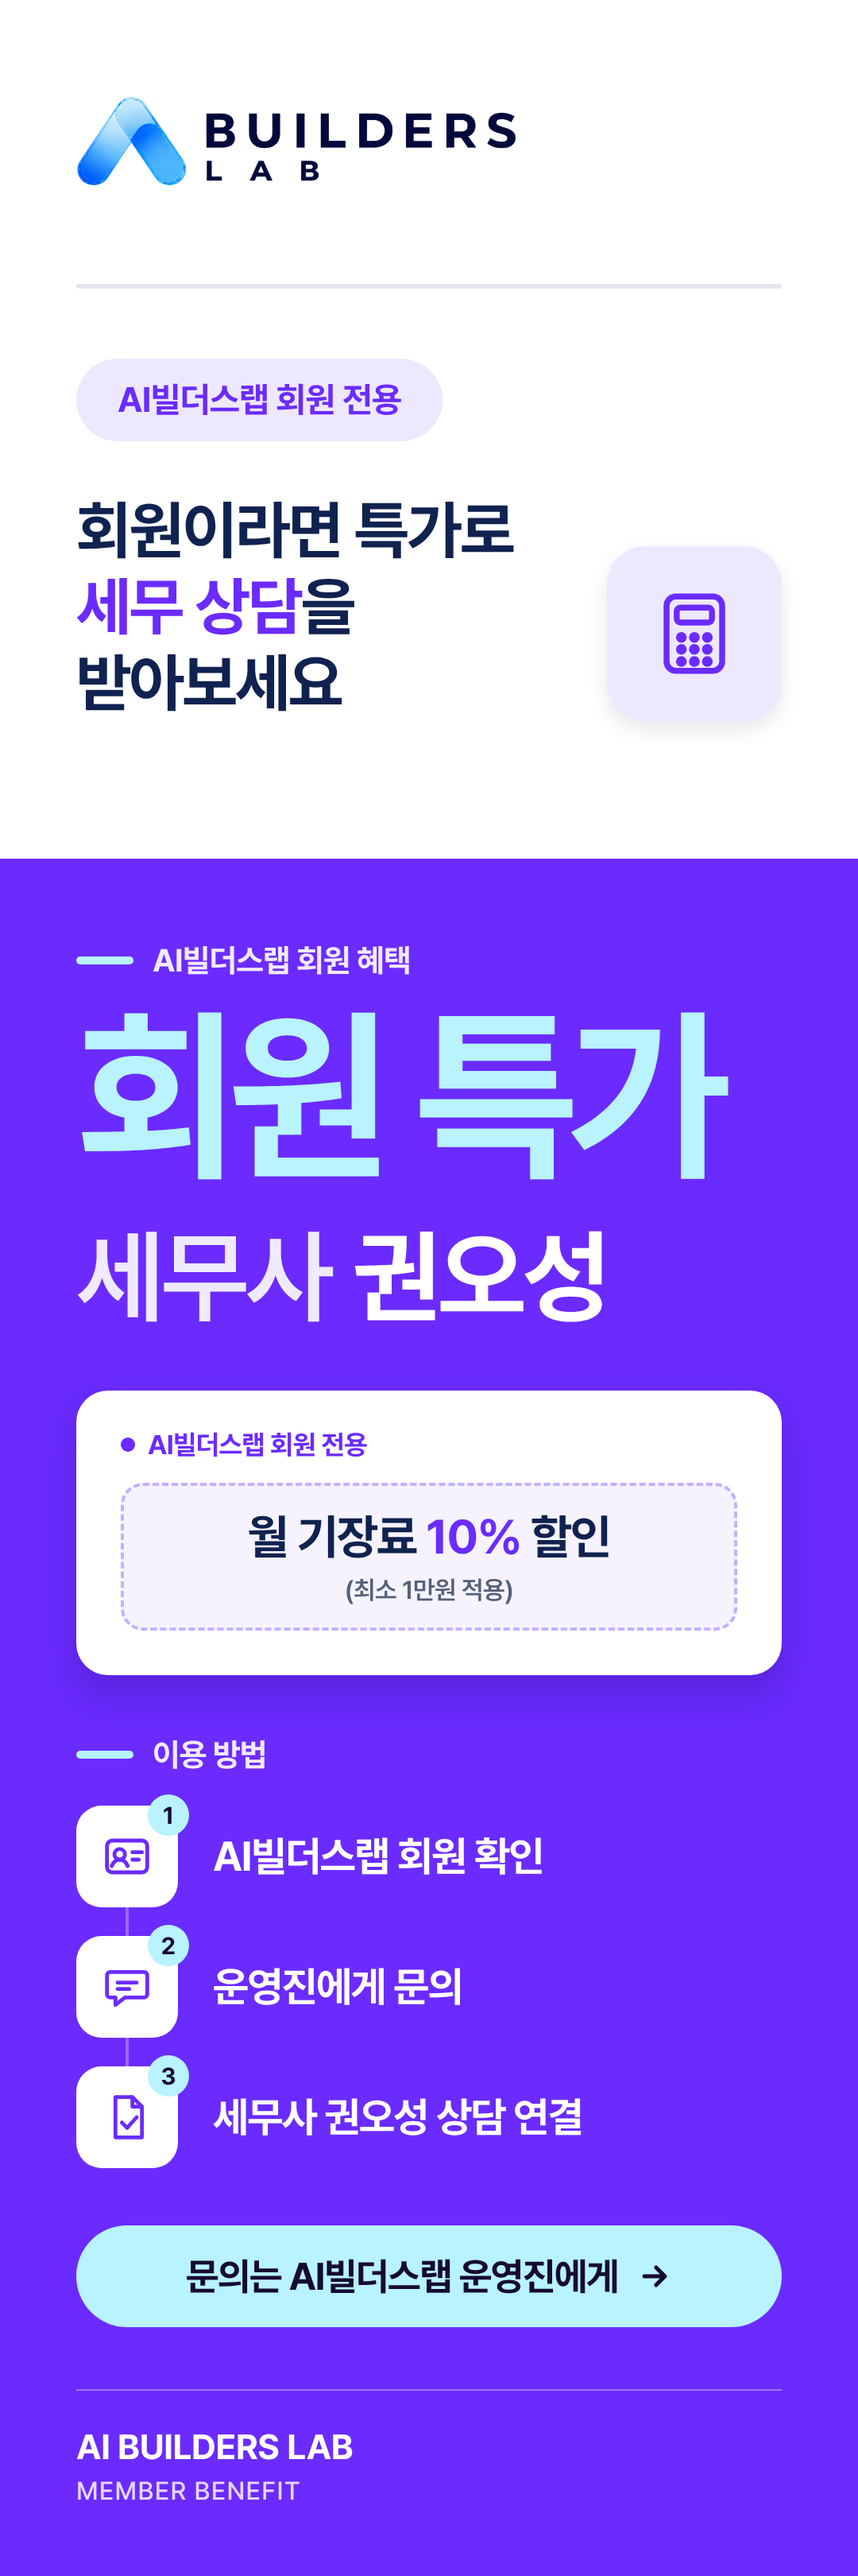
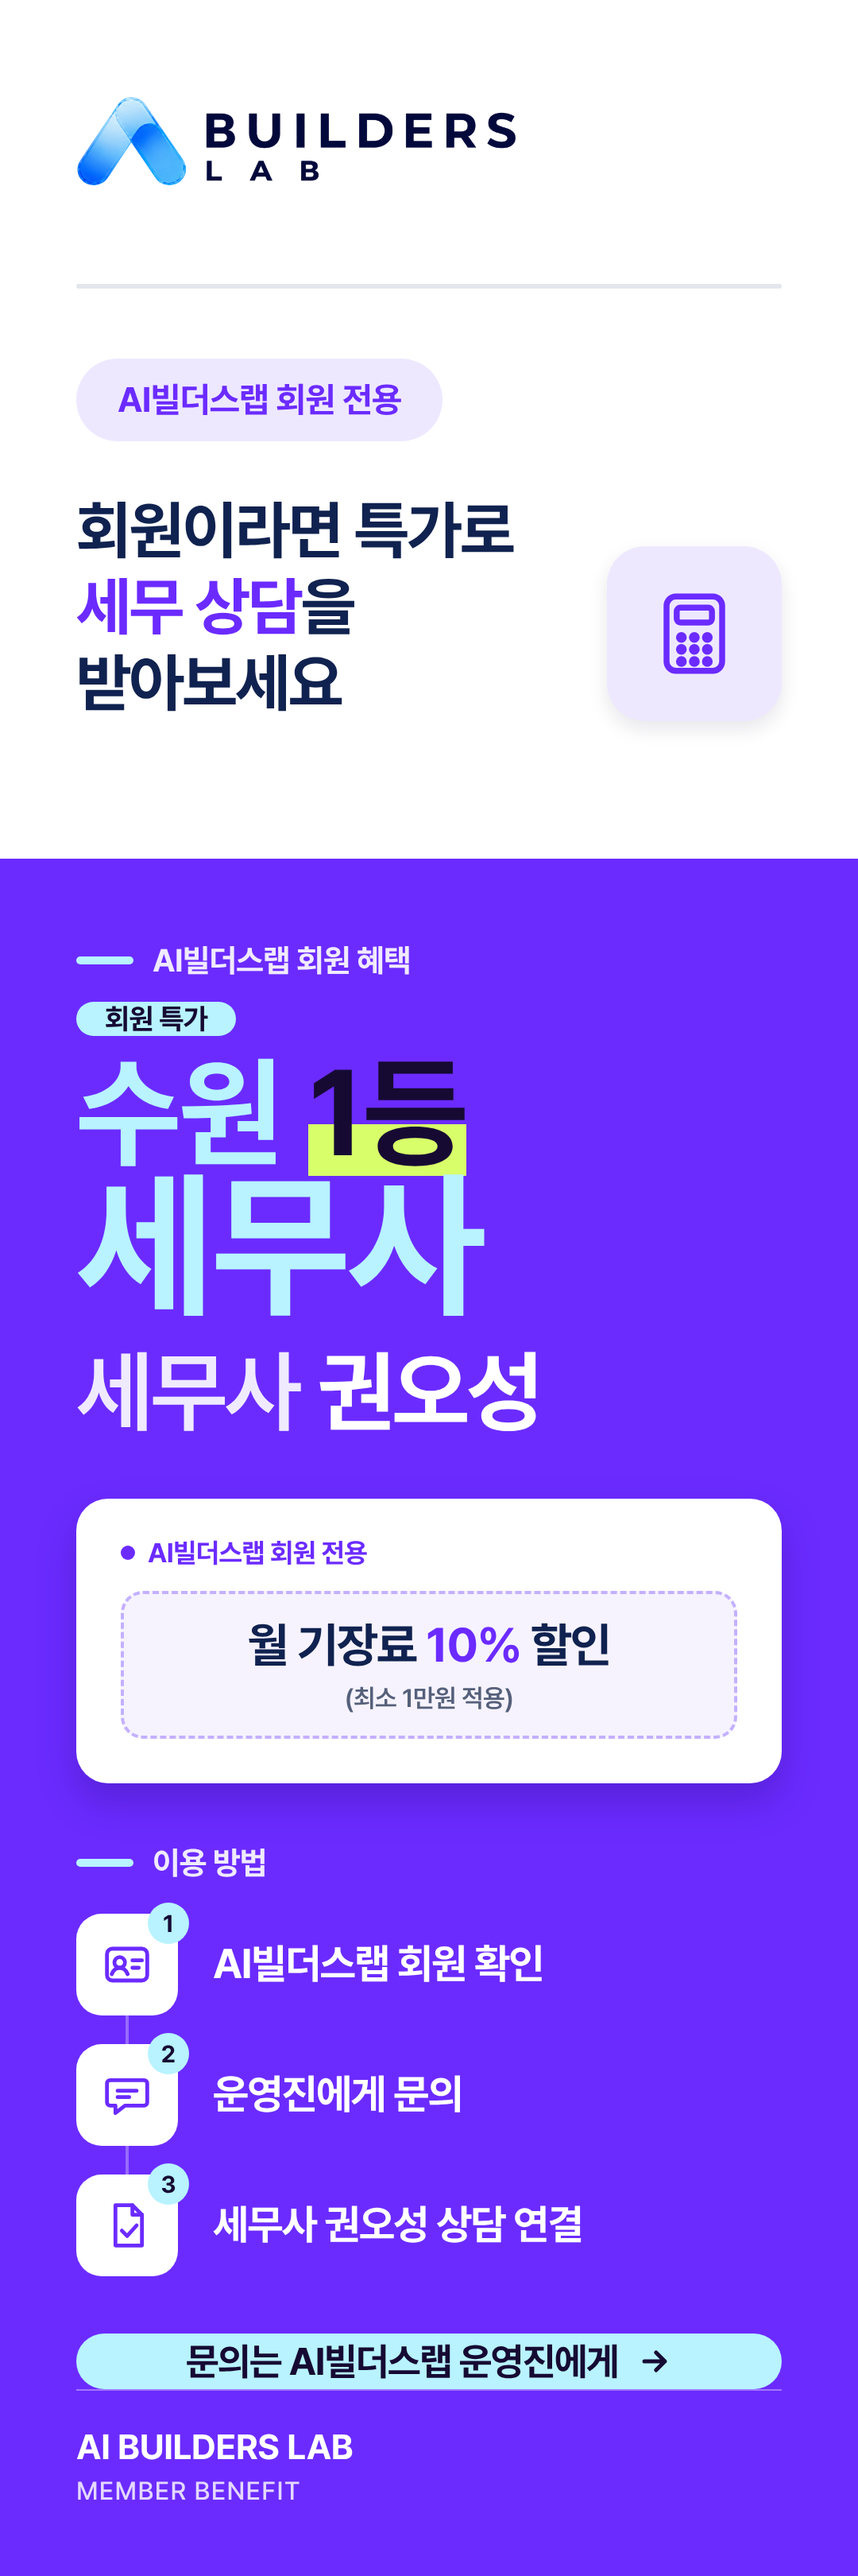
시안 B 되돌리고, C 울트라 바이올렛에 수원 1등 세무사 반영
B는 특가 플레이스홀더가 있던 이전 상태로 복구하고, 보라색 C-violet을 최종으로 표시한다.

Changed region(s): [[0.0917, 0.3741, 0.9167, 0.9352], [0.7944, 0.3741, 0.8556, 0.4676]]

diff --git a/index.html b/index.html
@@ -1,6 +1,6 @@
 <!doctype html><html lang="ko"><head><meta charset="utf-8"><meta name="viewport" content="width=device-width,initial-scale=1">
 <title>세무사 권오성 · AI빌더스랩 회원 특가 배너 시안</title>
-<meta name="description" content="AI빌더스랩 회원 전용 세무사 배너 시안 미리보기와 다운로드. 시안 B 최종, 수원 1등 세무사, 월 기장료 10% 할인(최소 1만원 적용)">
+<meta name="description" content="AI빌더스랩 회원 전용 세무사 배너 시안 미리보기와 다운로드. 시안 C 울트라 바이올렛 최종, 수원 1등 세무사, 월 기장료 10% 할인(최소 1만원 적용)">
 <link rel="stylesheet" href="https://cdn.jsdelivr.net/gh/orioncactus/pretendard@v1.3.9/dist/web/static/pretendard.min.css">
 <style>
 *{box-sizing:border-box}body{margin:0;font-family:Pretendard,-apple-system,sans-serif;background:#F4F6FB;color:#10224F;word-break:keep-all}
@@ -37,11 +37,11 @@ footer{background:#1E5EFF;color:#fff;padding:28px 0;margin-top:40px}footer b{dis
 @media(max-width:720px){.prev{grid-template-columns:1fr}.vert{max-width:280px}}
 </style></head><body>
 <header><div class="wrap"><div class="top"><img src="logo.png" alt="AI BUILDERS LAB"><span class="pill">AI빌더스랩 회원 전용</span></div>
-<div class="hero"><span class="pill">시안 B 최종</span><h1>세무사 권오성<br><b>회원 특가</b> 배너</h1><div class="bar"></div>
-<p>시안 B를 최종으로 확정했어요. “수원 1등 세무사”를 강조했고, 특가는 AI빌더스랩 회원 전용 월 기장료 10% 할인(최소 1만원 적용)입니다. 아래에서 세로(1080×3240)·가로(1200×400) PNG를 내려받을 수 있어요.</p>
-<nav class="jump"><a href="#vA">시안 A</a><a class="sel" href="#vB">시안 B 최종</a><a href="#vC">시안 C</a><a href="#colors">컬러 3종</a><a href="#comments">댓글</a></nav></div></div></header>
+<div class="hero"><span class="pill">시안 C 울트라 바이올렛 최종</span><h1>세무사 권오성<br><b>회원 특가</b> 배너</h1><div class="bar"></div>
+<p>시안 C 울트라 바이올렛을 최종으로 확정했어요. “수원 1등 세무사”를 강조했고, 특가는 AI빌더스랩 회원 전용 월 기장료 10% 할인(최소 1만원 적용)입니다. 아래에서 세로(1080×3240)·가로(1200×400) PNG를 내려받을 수 있어요.</p>
+<nav class="jump"><a href="#vA">시안 A</a><a href="#vB">시안 B</a><a href="#vC">시안 C</a><a class="sel" href="#violet">울트라 바이올렛 최종</a><a href="#colors">컬러 3종</a><a href="#comments">댓글</a></nav></div></div></header>
 <main class="wrap">
-<div class="note"><b>시안 B 최종: 수원 1등 세무사 · 월 기장료 10% 할인(최소 1만원 적용).</b><p>같은 특가는 시안 C와 컬러 3종에도 들어 있어요. 시안 A의 특가 자리는 아직 비어 있습니다. 문의는 AI빌더스랩 운영진에게.</p></div>
+<div class="note"><b>시안 C 울트라 바이올렛 최종: 수원 1등 세무사 · 월 기장료 10% 할인(최소 1만원 적용).</b><p>같은 특가는 시안 C 원안과 다른 컬러 3종에도 들어 있어요. 시안 A·B의 특가 자리는 아직 비어 있습니다. 문의는 AI빌더스랩 운영진에게.</p></div>
 <section class="card" id="vA">
   <div class="head"><span class="tag">시안 A</span><h2>레퍼런스형</h2><p>레퍼런스 그대로: 흰 상단 대형 3줄 타이포(회원 특가/세무사/권오성) + 하단 블루 블록에 연두 특가 슬롯</p></div>
   <div class="prev">
@@ -52,7 +52,7 @@ footer{background:#1E5EFF;color:#fff;padding:28px 0;margin-top:40px}footer b{dis
   </div>
 </section>
 <section class="card" id="vB">
-  <div class="head"><span class="tag final">시안 B · 최종</span><h2>프로필·쿠폰형</h2><p>인물 중심: 상단에 “수원 1등 세무사” 강조, 큰 프로필 카드(권 이니셜·초대형 권오성) + 점선 절취선 쿠폰 티켓에 월 기장료 10% 할인</p></div>
+  <div class="head"><span class="tag">시안 B</span><h2>프로필·쿠폰형</h2><p>인물 중심: 큰 프로필 카드(권 이니셜·초대형 권오성) + 점선 절취선 쿠폰 티켓에 특가 슬롯</p></div>
   <div class="prev">
     <figure class="vert"><img src="png/B-vertical.png" alt="시안 B 세로 1080×3240" loading="lazy"><figcaption>세로 1080×3240</figcaption>
       <a class="btn" href="png/B-vertical.png" download="taxbanner-B-vertical.png">세로 PNG 내려받기</a></figure>
@@ -83,9 +83,9 @@ footer{background:#1E5EFF;color:#fff;padding:28px 0;margin-top:40px}footer b{dis
           <a class="btn red" href="png/C-red-horizontal.png" download="taxbanner-C-red-horizontal.png">가로 PNG 내려받기</a></figure>
       </div>
     </article>
-    <article class="color-card">
+    <article class="color-card" id="violet">
       <div class="stripe" style="background:#6B2BFF"></div>
-      <div class="meta"><span class="dot" style="background:#6B2BFF"></span><div><h3>울트라 바이올렛</h3><p class="hex">#6B2BFF · 액센트 #B8F3FF</p></div></div>
+      <div class="meta"><span class="dot" style="background:#6B2BFF"></span><div><h3>울트라 바이올렛 <span class="tag final" style="margin-left:8px;vertical-align:middle">최종</span></h3><p class="hex">#6B2BFF · 액센트 #B8F3FF · 수원 1등 세무사</p></div></div>
       <div class="prev">
         <figure class="vert"><img src="png/C-violet-vertical.png" alt="시안 C 울트라 바이올렛 세로 1080×3240" loading="lazy"><figcaption>세로 1080×3240</figcaption>
           <a class="btn violet" href="png/C-violet-vertical.png" download="taxbanner-C-violet-vertical.png">세로 PNG 내려받기</a></figure>

diff --git a/src/banner-B-horizontal.html b/src/banner-B-horizontal.html
@@ -27,7 +27,7 @@
   .logo { display: block; height: 50px; }
   .badge { display: inline-flex; align-items: center; height: 40px; padding: 0 20px; border-radius: 20px;
            background: #EAF0FF; color: #1E5EFF; font-size: 18px; font-weight: 700; letter-spacing: -0.02em; }
-  .profile { display: flex; align-items: center; gap: 36px; margin-top: 22px; }
+  .profile { display: flex; align-items: center; gap: 36px; margin-top: 32px; }
   .avatar { width: 136px; height: 136px; border-radius: 50%; flex: none;
             background: linear-gradient(145deg, #3B74FF 0%, #1E5EFF 55%, #1449D6 100%);
             display: flex; align-items: center; justify-content: center;
@@ -35,25 +35,20 @@
             box-shadow: 0 0 0 8px #EAF0FF; margin-left: 8px; }
   .role { display: inline-flex; align-items: center; height: 36px; padding: 0 16px; border-radius: 18px;
           background: #EAF0FF; color: #1E5EFF; font-size: 20px; font-weight: 700; }
-  .name { margin-top: 4px; font-size: 96px; line-height: 1; font-weight: 900; letter-spacing: -0.04em; color: #10224F; }
-  .headline { margin-top: 16px; display: flex; align-items: center; gap: 14px;
-              font-size: 48px; line-height: 1.1; font-weight: 800; color: #10224F; letter-spacing: -0.04em; }
-  .headline i { display: block; width: 32px; height: 8px; border-radius: 4px; background: #1E5EFF; flex: none; }
-  .headline em { font-style: normal; color: #1E5EFF;
-                 background: linear-gradient(transparent 62%, #D8FF6A 62%, #D8FF6A 94%, transparent 94%); }
+  .name { margin-top: 6px; font-size: 104px; line-height: 1; font-weight: 900; letter-spacing: -0.04em; color: #10224F; }
+  .sub { margin-top: 26px; display: flex; align-items: center; gap: 14px;
+         font-size: 20px; font-weight: 500; color: #4A5672; letter-spacing: -0.02em; }
+  .sub i { display: block; width: 32px; height: 6px; border-radius: 3px; background: #1E5EFF; }
 
   /* 오른쪽: 특가 */
   .right { flex: 1; height: 100%; background: #1E5EFF; color: #fff; padding: 32px 40px 0 44px; display: flex; flex-direction: column; }
   .t-row { display: flex; align-items: baseline; justify-content: space-between; }
   .t-title { font-size: 44px; font-weight: 800; letter-spacing: -0.03em; }
   .t-tag { font-size: 18px; font-weight: 700; letter-spacing: 0.1em; color: #D8FF6A; }
-  .offer-box { margin-top: 14px; min-height: 0; border-radius: 18px; background: #D8FF6A;
-               border: 3px dashed #10224F; padding: 10px 16px;
-               display: flex; flex-direction: column; align-items: center; justify-content: center; text-align: center; gap: 2px; }
-  .offer-kicker { font-size: 14px; font-weight: 700; color: #1E5EFF; letter-spacing: -0.02em; }
-  .offer-main { font-size: 26px; line-height: 1.15; font-weight: 800; color: #10224F; letter-spacing: -0.03em; }
-  .offer-main em { font-style: normal; color: #1E5EFF; }
-  .offer-note { font-size: 13px; font-weight: 600; color: #3A4A6A; letter-spacing: -0.02em; }
+  .offer-box { margin-top: 16px; min-height: 92px; border-radius: 18px; background: #D8FF6A;
+               border: 3px dashed #10224F; padding: 12px 20px;
+               display: flex; align-items: center; justify-content: center; text-align: center; }
+  .offer-box span { font-size: 28px; line-height: 1.2; font-weight: 800; color: #10224F; letter-spacing: -0.03em; }
   .cta { margin-top: auto; margin-bottom: 30px; display: flex; align-items: center; justify-content: space-between; gap: 12px; }
   .cta-text { font-size: 24px; line-height: 1.35; font-weight: 700; letter-spacing: -0.02em; }
   .cta-text em { font-style: normal; color: #D8FF6A; }
@@ -79,18 +74,14 @@
             <div class="name">권오성</div>
           </div>
         </div>
-        <div class="headline"><i></i><span>수원 <em>1등</em> 세무사</span></div>
+        <div class="sub"><i></i>회원이라면 특가로 세무 상담을 받아보세요</div>
       </div>
       <div class="right">
         <div class="t-row">
           <div class="t-title">회원 특가</div>
           <div class="t-tag">MEMBER ONLY</div>
         </div>
-        <div class="offer-box">
-          <div class="offer-kicker" data-slot="offer-label">AI빌더스랩 회원 전용</div>
-          <div class="offer-main" data-slot="offer-main">월 기장료 <em>10%</em> 할인</div>
-          <div class="offer-note" data-slot="offer-note">(최소 1만원 적용)</div>
-        </div>
+        <div class="offer-box"><span data-slot="offer">[회원 특가 내용 입력]</span></div>
         <div class="cta">
           <div class="cta-text">문의는 <em>AI빌더스랩</em> 운영진에게<small>AI BUILDERS LAB · MEMBER BENEFIT</small></div>
         </div>

diff --git a/src/banner-B-vertical.html b/src/banner-B-vertical.html
@@ -21,9 +21,8 @@
   .badge { display: inline-flex; align-items: center; height: 84px; padding: 0 40px;
            border-radius: 42px; background: #fff; color: #1E5EFF; font-size: 36px; font-weight: 700;
            letter-spacing: -0.02em; box-shadow: 0 4px 14px rgba(30, 94, 255, 0.12); }
-  .intro { margin-top: 48px; font-size: 120px; line-height: 1.08; font-weight: 900; letter-spacing: -0.05em; color: #10224F; }
-  .intro em { font-style: normal; color: #1E5EFF;
-              background: linear-gradient(transparent 62%, #D8FF6A 62%, #D8FF6A 94%, transparent 94%); }
+  .intro { margin-top: 56px; font-size: 104px; line-height: 1.14; font-weight: 800; letter-spacing: -0.03em; color: #10224F; }
+  .intro em { font-style: normal; color: #1E5EFF; }
 
   /* 프로필 카드 */
   .card { position: absolute; left: 80px; top: 900px; width: 920px; height: 1080px;
@@ -62,13 +61,10 @@
   .t-bot::before { content: ""; position: absolute; left: 56px; right: 56px; top: -2px; height: 0;
                    border-top: 5px dashed #fff; }
   .t-label { font-size: 32px; font-weight: 700; color: #1E5EFF; letter-spacing: -0.01em; }
-  .offer-box { margin-top: 20px; min-height: 152px; border-radius: 28px; background: #D8FF6A;
-               border: 4px dashed #10224F; padding: 18px 40px;
+  .offer-box { margin-top: 24px; min-height: 152px; border-radius: 28px; background: #D8FF6A;
+               border: 4px dashed #10224F; padding: 22px 40px;
                display: flex; align-items: center; justify-content: center; text-align: center; }
-  .offer-stack { display: flex; flex-direction: column; align-items: center; gap: 6px; }
-  .offer-main { font-size: 52px; line-height: 1.2; font-weight: 800; color: #10224F; letter-spacing: -0.03em; }
-  .offer-main em { font-style: normal; color: #1E5EFF; }
-  .offer-note { font-size: 28px; font-weight: 600; color: #3A4A6A; letter-spacing: -0.02em; }
+  .offer-box span { font-size: 56px; line-height: 1.2; font-weight: 800; color: #10224F; letter-spacing: -0.03em; }
 
   /* 하단 블루 블록 */
   .bottom { position: absolute; left: 0; bottom: 0; width: 1080px; height: 580px; background: #1E5EFF; color: #fff;
@@ -93,7 +89,7 @@
     <img class="logo" src="logo.png" alt="AI BUILDERS LAB">
     <div class="rule"></div>
     <div class="badge">AI빌더스랩 회원 전용</div>
-    <h1 class="intro">수원 <em>1등</em><br>세무사</h1>
+    <div class="intro">회원이라면<br><em>특가로</em> 세무 상담</div>
   </div>
 
   <div class="card">
@@ -125,13 +121,8 @@
         <div class="t-tag">MEMBER ONLY</div>
       </div>
       <div class="t-bot">
-        <div class="t-label" data-slot="offer-label">AI빌더스랩 회원 전용</div>
-        <div class="offer-box">
-          <div class="offer-stack">
-            <div class="offer-main" data-slot="offer-main">월 기장료 <em>10%</em> 할인</div>
-            <div class="offer-note" data-slot="offer-note">(최소 1만원 적용)</div>
-          </div>
-        </div>
+        <div class="t-label">특가 내용</div>
+        <div class="offer-box"><span data-slot="offer">[회원 특가 내용 입력]</span></div>
       </div>
     </div>
   </div>

diff --git a/src/banner-C-violet-horizontal.html b/src/banner-C-violet-horizontal.html
@@ -21,12 +21,22 @@
   .foot span { display: block; margin-top: 4px; font-size: 18px; font-weight: 500; letter-spacing: 0.04em; color: rgba(255,255,255,0.82); }
 
   .center { flex: 1; display: flex; flex-direction: column; justify-content: center; padding: 0 24px 0 44px; }
+  .badges { display: flex; align-items: center; gap: 8px; flex-wrap: wrap; }
   .badge {
-    align-self: flex-start; display: inline-flex; align-items: center; height: 44px; padding: 0 22px;
-    background: #EEE8FF; color: #6B2BFF; border-radius: 22px; font-size: 20px; font-weight: 700; letter-spacing: -0.02em;
+    display: inline-flex; align-items: center; height: 36px; padding: 0 16px;
+    background: #EEE8FF; color: #6B2BFF; border-radius: 18px; font-size: 16px; font-weight: 700; letter-spacing: -0.02em;
   }
-  .mega { margin-top: 14px; font-size: 106px; line-height: 1.0; font-weight: 900; color: #B8F3FF; letter-spacing: -0.05em; white-space: nowrap; }
-  .bar { margin-top: 22px; width: 64px; height: 8px; border-radius: 4px; background: #B8F3FF; }
+  .deal-badge {
+    display: inline-flex; align-items: center; height: 36px; padding: 0 16px;
+    background: #B8F3FF; color: #160A33; border-radius: 18px; font-size: 16px; font-weight: 800; letter-spacing: -0.02em;
+  }
+  .mega { margin-top: 10px; font-weight: 900; color: #B8F3FF; letter-spacing: -0.06em; }
+  .mega .l1, .mega .l2 { display: block; line-height: 0.95; white-space: nowrap; }
+  .mega .l1 { font-size: 52px; }
+  .mega .l2 { font-size: 80px; }
+  .mega em { font-style: normal; color: #160A33;
+             background: linear-gradient(transparent 58%, #D8FF6A 58%, #D8FF6A 94%, transparent 94%); }
+  .bar { margin-top: 14px; width: 64px; height: 8px; border-radius: 4px; background: #B8F3FF; }
 
   .right { flex: none; width: 384px; display: flex; flex-direction: column; justify-content: center; }
   .name { font-size: 46px; line-height: 1.1; font-weight: 800; letter-spacing: -0.03em; white-space: nowrap; }
@@ -55,8 +65,11 @@
   </div>
 
   <div class="center">
-    <span class="badge">AI빌더스랩 회원 전용</span>
-    <div class="mega">회원 특가</div>
+    <div class="badges">
+      <span class="badge">AI빌더스랩 회원 전용</span>
+      <span class="deal-badge">회원 특가</span>
+    </div>
+    <h1 class="mega"><span class="l1">수원 <em>1등</em></span><span class="l2">세무사</span></h1>
     <div class="bar"></div>
   </div>
 

diff --git a/src/banner-C-violet-vertical.html b/src/banner-C-violet-vertical.html
@@ -30,9 +30,19 @@
   .blue { position: absolute; left: 0; right: 0; top: 1080px; bottom: 0; background: #6B2BFF; color: #fff; padding: 104px 96px 88px; display: flex; flex-direction: column; }
   .eyebrow { display: flex; align-items: center; gap: 24px; font-size: 40px; font-weight: 700; color: rgba(255,255,255,0.90); letter-spacing: -0.02em; }
   .eyebrow i { display: block; width: 72px; height: 10px; border-radius: 5px; background: #B8F3FF; }
-  .mega { margin-top: 28px; font-size: 236px; white-space: nowrap; line-height: 1.0; font-weight: 900; color: #B8F3FF; letter-spacing: -0.05em; }
-  .name { margin-top: 40px; font-size: 128px; line-height: 1.1; font-weight: 800; letter-spacing: -0.03em; }
-  .name small { font-size: 128px; font-weight: 600; opacity: 0.9; margin-right: 28px; }
+  .deal-badge {
+    align-self: flex-start; display: inline-flex; align-items: center; height: 72px; padding: 0 36px; margin-top: 28px;
+    background: #B8F3FF; color: #160A33; border-radius: 36px;
+    font-size: 36px; font-weight: 800; letter-spacing: -0.02em;
+  }
+  .mega { margin-top: 24px; font-weight: 900; color: #B8F3FF; letter-spacing: -0.06em; }
+  .mega .l1, .mega .l2 { display: block; line-height: 0.95; }
+  .mega .l1 { font-size: 152px; }
+  .mega .l2 { font-size: 200px; }
+  .mega em { font-style: normal; color: #160A33;
+             background: linear-gradient(transparent 58%, #D8FF6A 58%, #D8FF6A 94%, transparent 94%); }
+  .name { margin-top: 28px; font-size: 112px; line-height: 1.1; font-weight: 800; letter-spacing: -0.03em; }
+  .name small { font-size: 112px; font-weight: 600; opacity: 0.9; margin-right: 24px; }
   .sub { margin-top: 36px; font-size: 40px; line-height: 1.45; font-weight: 500; color: rgba(255,255,255,0.88); letter-spacing: -0.02em; }
 
   .offer-card {
@@ -104,7 +114,8 @@
 
   <section class="blue">
     <div class="eyebrow"><i></i>AI빌더스랩 회원 혜택</div>
-    <div class="mega">회원 특가</div>
+    <div class="deal-badge">회원 특가</div>
+    <h1 class="mega"><span class="l1">수원 <em>1등</em></span><span class="l2">세무사</span></h1>
     <div class="name"><small>세무사</small>권오성</div>
 
     <div class="offer-card">

diff --git a/src/content.js b/src/content.js
@@ -1,5 +1,5 @@
-// ===== 여기 한 곳만 바꾸면 시안 B·C(원안·컬러 3종) 특가 문구가 반영됩니다 =====
-// 시안 A는 별도의 [data-slot="offer"] 플레이스홀더를 유지합니다.
+// ===== 여기 한 곳만 바꾸면 시안 C(원안·컬러 3종) 특가 문구가 반영됩니다 =====
+// 시안 A·B는 별도의 [data-slot="offer"] 플레이스홀더를 유지합니다.
 window.BANNER_CONTENT = {
   label: "AI빌더스랩 회원 전용",
   main: "월 기장료 10% 할인",
